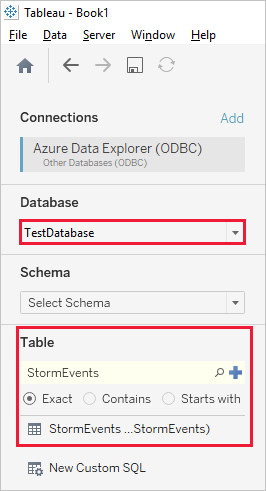
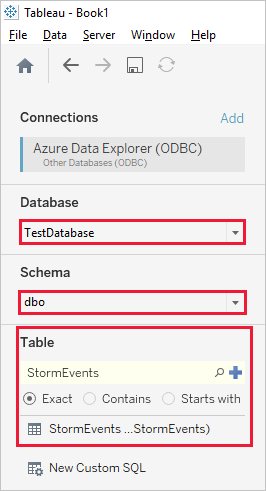
ALT text + image tweaks

Changed region(s): [[0.0602, 0.5804, 0.9323, 0.6415]]

diff --git a/data-explorer/connect-odbc.md b/data-explorer/connect-odbc.md
@@ -54,7 +54,7 @@ Follow these steps to configure an ODBC data source using the ODBC driver for SQ
 
     ![Active Directory Integrated](media/connect-odbc/active-directory-integrated.png)
 
-1. Select the database with the sample data, then select **Next**.
+1. Select the database with the sample data then **Next**.
 
     ![Change default database](media/connect-odbc/change-default-database.png)
 
@@ -78,11 +78,11 @@ Now you've finished configuring ODBC, you can bring sample data into Tableau.
 
 1. For **DSN**, select the data source you created for ODBC, then select **Sign In**.
 
-    ![](media/connect-odbc/odbc-sign-in.png)
+    ![ODBC sign-in](media/connect-odbc/odbc-sign-in.png)
 
-1. For **Database**, select the database on your sample cluster, such as *TestDatabase*. For **Table**, select the *StormEvents* sample table.
+1. For **Database**, select the database on your sample cluster, such as *TestDatabase*. For **Schema**, select *dbo*, and for **Table**, select the *StormEvents* sample table.
 
-    ![](media/connect-odbc/select-database-table.png)
+    ![Select database and table](media/connect-odbc/select-database-table.png)
 
 1. Tableau now shows the schema for the sample data. Select **Update Now** to bring the data into Tableau.
 
